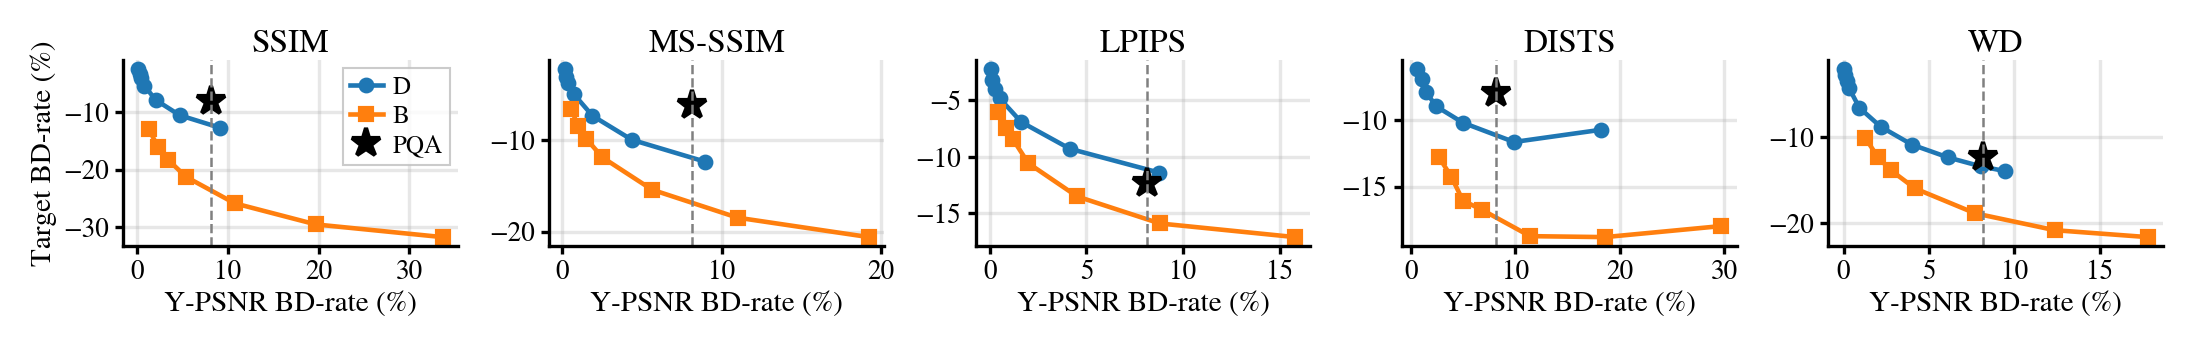
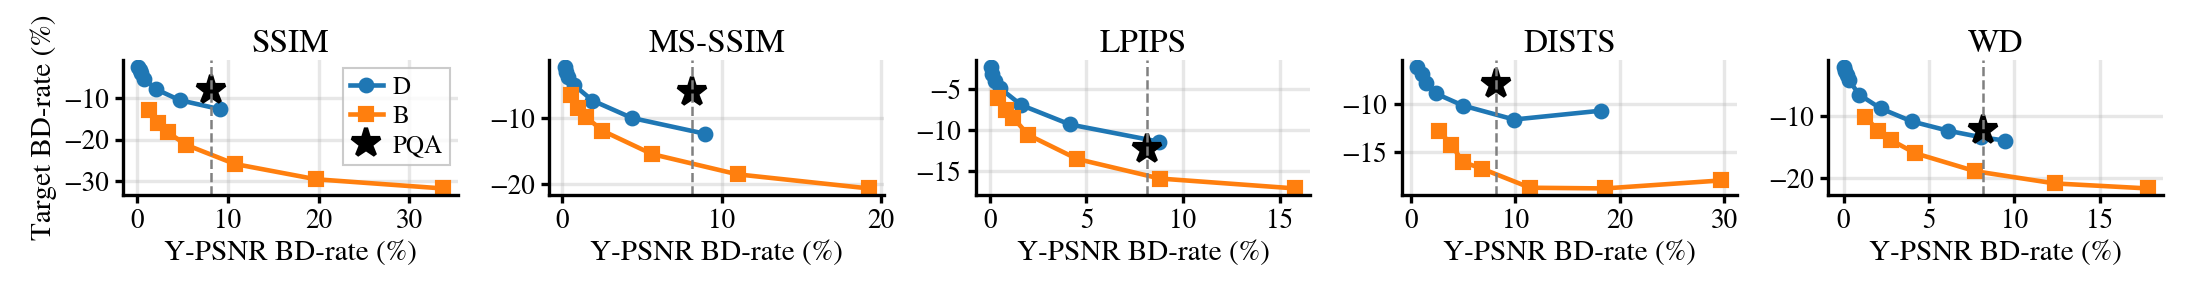
Sync with the paper sources (2026-09-23)

diff --git a/experiments/plots/figs.py b/experiments/plots/figs.py
@@ -25,12 +25,12 @@ tau_def = json.load(open('work/default_tau.json')) if os.path.exists('work/defau
 by = collections.defaultdict(dict)
 for r in rows:
     by[r['base']][float(r['tau'])] = r
-os.makedirs('paper/figures', exist_ok=True)
+os.makedirs('figures', exist_ok=True)
 
 # --- tau sweep -----------------------------------------------------------------------------
 # Drawn at the width it is printed at (\textwidth ~ 7.2 in) so the fonts are not scaled down by the include;
 # one legend for the whole strip, above the panels, so it cannot sit on a curve.
-fig, ax = plt.subplots(1, NPANEL, figsize=(7.2, 1.05))
+fig, ax = plt.subplots(1, NPANEL, figsize=(7.2, 0.88))
 for a, (met, (dbase, bbase, key, _, _)) in zip(ax, MET.items()):
     for base, lab, mk in ((dbase, 'D', 'o'), (bbase, 'B', 's')):
         pts = sorted(by[base].items())
@@ -48,7 +48,7 @@ ax[0].set_ylabel('Target BD-rate (%)', fontsize=7, labelpad=1.5)
 lg = ax[0].legend(loc='upper right', fontsize=6, frameon=True, fancybox=False, handlelength=1.3, handletextpad=0.4,
                   borderpad=0.3, labelspacing=0.2, borderaxespad=0.3)
 lg.get_frame().set_edgecolor('0.75'); lg.get_frame().set_linewidth(0.5)
-fig.tight_layout(pad=0.3, w_pad=0.5); fig.savefig('paper/figures/tau_sweep.png', dpi=300, bbox_inches='tight'); print('paper/figures/tau_sweep.png')
+fig.tight_layout(pad=0.3, w_pad=0.5); fig.savefig('figures/tau_sweep.png', dpi=300, bbox_inches='tight'); print('figures/tau_sweep.png')
 
 # --- probe sweep ---------------------------------------------------------------------------
 fig, ax = plt.subplots(1, NPANEL, figsize=(13 * NPANEL / 4.0, 3.2)); any_pts = False
@@ -64,7 +64,7 @@ for a, (met, (dbase, bbase, key, dpre, bpre)) in zip(ax, MET.items()):
         if len(ms) >= 2: a.plot(ms, ys, marker=mk, label=kind); any_pts = True
     a.set_xscale('log', base=2); a.set_title(met); a.set_xlabel('probes m'); a.grid(alpha=0.3)
 ax[0].set_ylabel('target-metric BD-rate (%)'); ax[0].legend(fontsize=8)
-fig.tight_layout(); fig.savefig('paper/figures/probe_sweep.png', dpi=160); print('paper/figures/probe_sweep.png', '(partial)' if not any_pts else '')
+fig.tight_layout(); fig.savefig('figures/probe_sweep.png', dpi=160); print('figures/probe_sweep.png', '(partial)' if not any_pts else '')
 
 
 # --- combined 2x4 figure for the paper (tau sweep on top, probe sweep below) -------------------
@@ -91,4 +91,4 @@ for a, (met, (dbase, bbase, key, dpre, bpre)) in zip(axs[1], MET.items()):
         if len(ms) >= 2: a.plot(ms, ys, marker=mk, label=kind)
     a.set_xscale('log', base=2); a.set_xlabel('probes m'); a.grid(alpha=0.3)
 axs[1, 0].set_ylabel('target-metric BD-rate (%)')
-fig.tight_layout(); fig.savefig('paper/figures/sweeps.png', dpi=170); print('paper/figures/sweeps.png')
+fig.tight_layout(); fig.savefig('figures/sweeps.png', dpi=170); print('figures/sweeps.png')

diff --git a/experiments/probes_fig.py b/experiments/probes_fig.py
@@ -6,7 +6,7 @@ y: BD-rate on the metric the map is built for, read at PerceptQPA's Y-PSNR cost 
    Table 5, which quoted each m at its own cost and tau.
 One line per metric, markers m = 16, 32, 64, 128, 256.  The encoder's own cost does not depend on m (Fig. 5).
 Series: m < 256 from carc/probes_sweep.sbatch (tags sbh8n<m>, mbh8n<m>, bh8n<m>, dgnb8j3n<m>, gnb8j3n<m>);
-m = 256 is the Table-1 block series.  Writes paper/figures/probes.png and results/probes/fig.csv.
+m = 256 is the Table-1 block series.  Writes figures/probes.png and results/probes/fig.csv.
 """
 import csv, glob, json, os, collections
 import numpy as np
@@ -56,8 +56,8 @@ if not tsec:
 # explicit placement (no tight_layout: it shrinks the axes to fit the legend inside the figure height, so the plot got
 # smaller every time the legend moved down).  Figure fractions: axes 1.25 in tall, 0.86 in below it for ticks, the
 # x label, a clear gap and the legend; the paper scales the image to the column width, so only the axes width matters.
-fig = plt.figure(figsize=(3.4, 1.62))
-ax = fig.add_axes([0.15, 0.457, 0.83, 0.506])   # axes 0.82 in tall; the 0.74 in below it (ticks, label, gap, legend) is unchanged
+fig = plt.figure(figsize=(3.4, 1.45))
+ax = fig.add_axes([0.15, 0.51, 0.83, 0.448])   # axes 0.65 in tall; the 0.74 in below it (ticks, label, gap, legend) is unchanged
 out = []
 for met, (pre, full, key) in SER.items():
     xs, ys, ms = [], [], []
@@ -81,12 +81,12 @@ hd, lb = ax.get_legend_handles_labels()
 lg = fig.legend(hd, lb, loc='lower center', bbox_to_anchor=(0.5, 0.01), ncol=5, fontsize=7, frameon=True, fancybox=False,
                 handlelength=1.4, columnspacing=1.0, borderpad=0.4)
 lg.get_frame().set_edgecolor('0.75'); lg.get_frame().set_linewidth(0.6)
-os.makedirs('paper/figures', exist_ok=True); os.makedirs('results/probes', exist_ok=True)
-fig.savefig('paper/figures/probes.png', bbox_inches='tight', dpi=300)
+os.makedirs('figures', exist_ok=True); os.makedirs('results/probes', exist_ok=True)
+fig.savefig('figures/probes.png', bbox_inches='tight', dpi=300)
 with open('results/probes/fig.csv', 'w', newline='') as fh:
     w = csv.DictWriter(fh, fieldnames=list(out[0].keys())); w.writeheader(); w.writerows(out)
 print(f'at Y-PSNR cost {AT:+.2f} %   [timing: {TIMING}]')
 for r in out:
     print(f"  {NAME[r['metric']]:8s} m={r['m']:3d}  time {r['map_time_s'] if r['map_time_s']=='' else round(r['map_time_s'],2)!s:>6}  "
           f"BD {r['bd_target'] if r['bd_target']=='' else round(r['bd_target'],1)!s:>6}{'' if r['inside'] in ('',1) else '*'}  (n_tau={r['n_tau']})")
-print('-> paper/figures/probes.png')
+print('-> figures/probes.png')

diff --git a/experiments/ablation_table.py b/experiments/ablation_table.py
@@ -19,11 +19,11 @@ for r in rows:
 AT = (json.load(open('work/qpa_cost.json'))['psnr_y_bd_rate'] if os.path.exists('work/qpa_cost.json')
       else json.load(open('work/qpa_bd_ctc.json'))['bd_rate_vs_anchor']['psnr_y'])
 COLS = [('LPIPS', 'bd_lpips'), ('DISTS', 'bd_dists'), ('WD', 'bd_wd2')]
-ROWS = [('diagonal GN, $R{=}1$',                 ('wlpips_gn',        'wdists_dgn',        'wwd_gn')),
-        ('diagonal GN, smoothed $\\sigma{=}3$',   ('wlpips_gnj3',      'wdists_dgnj3',      'wwd_gnj3')),
-        ('block GN, $R{=}1$',                     ('wlpips_gnb8',      'wdists_dgnb8',      'wwd_gnb8')),
-        ('block GN, smoothed $\\sigma{=}3$',       ('wlpips_bh8',       'wdists_dgnb8j3',    'wwd_gnb8j3')),
-        ('block Hutchinson (HVP), PSD, same $m$', ('wlpips_hb8m256psd','wdists_dhb8m256psd','wwd_hb8m256psd'))]
+ROWS = [('Diagonal GN, $R{=}1$',                 ('wlpips_gn',        'wdists_dgn',        'wwd_gn')),
+        ('Diagonal GN, smoothed $\\sigma{=}3$',   ('wlpips_gnj3',      'wdists_dgnj3',      'wwd_gnj3')),
+        ('Block GN, $R{=}1$',                     ('wlpips_gnb8',      'wdists_dgnb8',      'wwd_gnb8')),
+        ('Block GN, smoothed $\\sigma{=}3$',       ('wlpips_bh8',       'wdists_dgnb8j3',    'wwd_gnb8j3')),
+        ('Block HVP', ('wlpips_hb8m256psd','wdists_dhb8m256psd','wwd_hb8m256psd'))]
 
 def at_cost(base, key):
     """(value at AT, inside-grid flag, n_alphas); None when the sweep has fewer than two points."""
@@ -41,9 +41,13 @@ def fmt(c):
 
 lines = ['\\begin{tabular}{lccc}', '\\toprule', 'Map & LPIPS & DISTS & WD \\\\', '\\midrule']
 out = []
-for label, bases in ROWS:
-    cells = [at_cost(b, k) for b, (_, k) in zip(bases, COLS)]
-    lines.append(f'{label} & ' + ' & '.join(fmt(c) for c in cells) + ' \\\\')
+allcells = [[at_cost(b, k) for b, (_, k) in zip(bases, COLS)] for _, bases in ROWS]
+best = [min((c[0] for c in col if c is not None), default=None) for col in zip(*allcells)]   # best (most negative) per column
+def fmtb(c, b):
+    t = fmt(c)
+    return t.replace(f'${c[0]:+.1f}$', f'$\\mathbf{{{c[0]:+.1f}}}$') if c is not None and b is not None and abs(c[0] - b) < 5e-2 else t
+for (label, bases), cells in zip(ROWS, allcells):
+    lines.append(f'{label} & ' + ' & '.join(fmtb(c, b) for c, b in zip(cells, best)) + ' \\\\')
     rec = {'row': label, 'at_ypsnr': AT}
     for (name, _), b, c in zip(COLS, bases, cells):
         rec[f'{name.lower()}_base'] = b

diff --git a/experiments/lit_table4.py b/experiments/lit_table4.py
@@ -32,14 +32,14 @@ def main():
             ('Ours, opt. MS-SSIM',                                  THEIR_MS[0], ms_m, ms_l),
             ("Yang \\& Baji\\'c \\cite{yang2025bit}, opt. LPIPS",   THEIR_LP[0], THEIR_LP[1], THEIR_LP[2]),
             ('Ours, opt. LPIPS',                                    THEIR_LP[0], lp_m, lp_l)]
-    bm = min(r[2] for r in rows); bl = min(r[3] for r in rows)
+    bp = min(r[1] for r in rows); bm = min(r[2] for r in rows); bl = min(r[3] for r in rows)   # best per column, RGB-PSNR included
     def c(v, best):
         return f'$\\mathbf{{{v:+.2f}}}$' if abs(v - best) < 1e-9 else f'${v:+.2f}$'
     L = ['\\begin{tabular}{lrrr}', '\\toprule',
          'Allocation & RGB-PSNR & MS-SSIM & LPIPS \\\\', '\\midrule']
     for i, (lab, cost, m, l) in enumerate(rows):
-        if i in (3, 5): L.append('\\midrule')          # a rule before each target-matched pair
-        L.append(f'{lab} & ${cost:+.2f}$ & {c(m, bm)} & {c(l, bl)} \\\\')
+        if i == 3: L.append('\\midrule')               # baselines above, the two target-matched pairs below
+        L.append(f'{lab} & {c(cost, bp)} & {c(m, bm)} & {c(l, bl)} \\\\')
     L += ['\\bottomrule', '\\end{tabular}']
     os.makedirs('tables', exist_ok=True)
     open('tables/table4_literature.tex', 'w').write('\n'.join(L) + '\n')

diff --git a/experiments/complexity_bar.py b/experiments/complexity_bar.py
@@ -33,7 +33,7 @@ else:
     M, CARD = {}, 'legacy'
 def mp(m, k): return M.get(f'{m}|{k}', np.nan)
 
-fig, (axL, axR) = plt.subplots(1, 2, figsize=(7.2, 1.85), sharey=True)
+fig, (axL, axR) = plt.subplots(1, 2, figsize=(7.2, 1.5), sharey=True)
 x = np.arange(len(METS)); w = 0.38
 for ax, f, title in ((axL, enc, 'Encoding'), (axR, mp, 'Curvature estimation')):
     for i, k in enumerate(('diag', 'block')):
@@ -48,7 +48,7 @@ for ax, f, title in ((axL, enc, 'Encoding'), (axR, mp, 'Curvature estimation')):
 axL.set_ylabel('Time (s)', fontsize=15)
 axL.axhline(anchor, color='k', lw=1.0, ls='--')   # SSE-RDO encode time; named in the caption
 h = [plt.Rectangle((0, 0), 1, 1, facecolor='0.6', hatch=hh, edgecolor='white', linewidth=.4) for hh in ('', '///')]
-axR.legend(h, ['diagonal', 'block'], fontsize=9, ncol=2, frameon=False, loc='upper right')
+axR.legend(h, ['diagonal', 'block'], fontsize=11, ncol=2, frameon=False, loc='upper right')
 fig.tight_layout()
 os.makedirs('figures', exist_ok=True)
 fig.savefig('figures/complexity_bar.png', bbox_inches='tight', dpi=300)

diff --git a/experiments/maps_fig.py b/experiments/maps_fig.py
@@ -32,7 +32,7 @@ def read_bh_diag_y(p):
 def main():
     ap = argparse.ArgumentParser()
     ap.add_argument('--image', default='kodim23')
-    ap.add_argument('--out', default='paper/figures/maps.png')
+    ap.add_argument('--out', default='figures/maps.png')
     a = ap.parse_args()
     y, u, v = read_yuv420(f'work/yuv/{a.image}.yuv', W, H)
     t = lambda x: torch.from_numpy(x).float()[None, None]
@@ -60,7 +60,7 @@ def main():
     cax = fig.add_axes([0.912, 0.02, 0.018, 0.86])
     cb = fig.colorbar(im, cax=cax)          # no label: the caption says the scale is log10 of the weight
     cb.ax.tick_params(labelsize=6, length=2, pad=1.2)
-    os.makedirs('paper/figures', exist_ok=True)
+    os.makedirs('figures', exist_ok=True)
     fig.savefig(a.out, bbox_inches='tight', dpi=320)
     print(a.out)
 

diff --git a/experiments/tables/table3_ablation.tex b/experiments/tables/table3_ablation.tex
@@ -2,10 +2,10 @@
 \toprule
 Map & LPIPS & DISTS & WD \\
 \midrule
-diagonal GN, $R{=}1$ & $-9.4$ & $-10.5$ & $-13.3$ \\
-diagonal GN, smoothed $\sigma{=}3$ & $-11.1$ & $-11.1$ & $-13.5$ \\
-block GN, $R{=}1$ & $-10.4$ & $-14.5$ & $-15.0$ \\
-block GN, smoothed $\sigma{=}3$ & $-15.5$ & $-17.3$ & $-19.1$ \\
-block Hutchinson (HVP), PSD, same $m$ & $-9.5$ & $-10.6$ & $-15.0$ \\
+Diagonal GN, $R{=}1$ & $-9.4$ & $-10.5$ & $-13.3$ \\
+Diagonal GN, smoothed $\sigma{=}3$ & $-11.1$ & $-11.1$ & $-13.5$ \\
+Block GN, $R{=}1$ & $-10.4$ & $-14.5$ & $-15.0$ \\
+Block GN, smoothed $\sigma{=}3$ & $\mathbf{-15.5}$ & $\mathbf{-17.3}$ & $\mathbf{-19.1}$ \\
+Block HVP & $-9.5$ & $-10.6$ & $-15.0$ \\
 \bottomrule
 \end{tabular}

diff --git a/experiments/tables/table4_literature.tex b/experiments/tables/table4_literature.tex
@@ -2,13 +2,12 @@
 \toprule
 Allocation & RGB-PSNR & MS-SSIM & LPIPS \\
 \midrule
-Zero QP map \cite{yang2025bit} & $-2.75$ & $-3.46$ & $-2.42$ \\
+Zero QP map \cite{yang2025bit} & $\mathbf{-2.75}$ & $-3.46$ & $-2.42$ \\
 \texttt{PerceptQPA} \cite{yang2025bit} & $+2.85$ & $-11.86$ & $-11.96$ \\
 \texttt{PerceptQPA} (our run) & $+2.52$ & $-11.03$ & $-12.87$ \\
 \midrule
 Yang \& Baji\'c \cite{yang2025bit}, opt. MS-SSIM & $+0.98$ & $-11.88$ & $-10.96$ \\
 Ours, opt. MS-SSIM & $+0.98$ & $\mathbf{-17.53}$ & $-10.48$ \\
-\midrule
 Yang \& Baji\'c \cite{yang2025bit}, opt. LPIPS & $-0.10$ & $-8.55$ & $-8.33$ \\
 Ours, opt. LPIPS & $-0.10$ & $-6.77$ & $\mathbf{-17.63}$ \\
 \bottomrule
